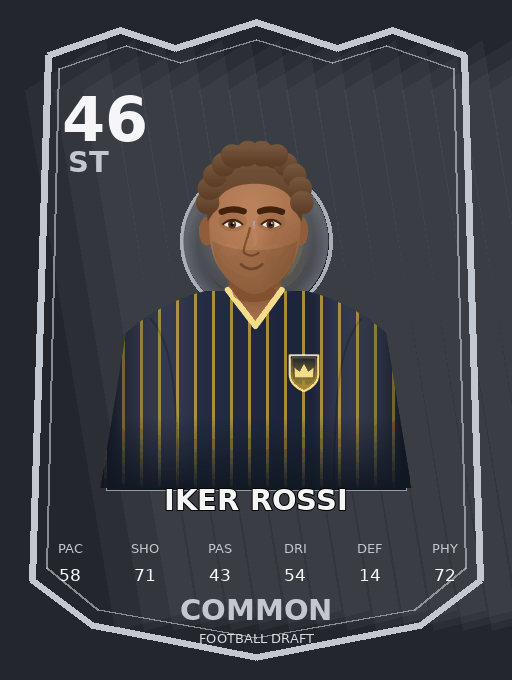
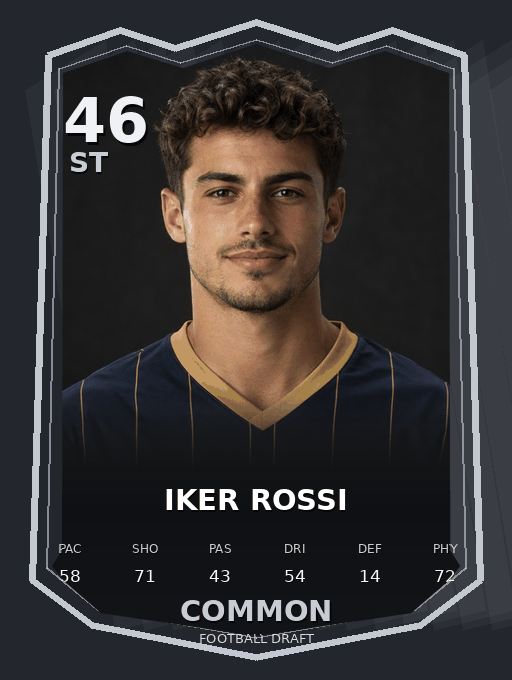
Photo cards: 250 of 300 players (FD-226 to FD-250); docs for the redesign
- Figma AI credits reached the monthly limit (next reset 2026-12-01)
- docs: implementation log (mobile redesign, portraits), status of the remaining 50

Claude-Session: https://claude.ai/code/session_01KRnKhUHTwbWg8SRZWPraiK

diff --git a/docs/04-implementation-log.md b/docs/04-implementation-log.md
@@ -104,6 +104,24 @@ GitHub Actions の Deploy（staging）で Cloudflare に初めて公開した。
 
 確認：新しく作ったワークフロー Staging check で、公開した staging を相手に、本番と同じ設定（テスト用の短い時間設定なし）で4人リーグ（自分＋CPU 3）を1回通しで実行し、すべて成功（247秒）。登録・300人のカード・Phase 3 の API・ルーム作成・WebSocket・ドラフト56ピック・3節6試合の試合計算・最終順位・試合履歴。Workers の無料プランで、試合計算が CPU 時間の上限で失敗することはなかった（1ルームでの確認。複数ルームの同時進行は未確認）。
 
+## 2026-11-17 スマートフォン縦向きのデザイン（ユーザーのデザインをもとに）
+
+ユーザーが用意した DUEL ボタンのコードと、スマートフォンのホーム画面の参考ファイルをもとに、ゲーム全体を作り直した。
+
+- 色：全体をネオンイエロー（#e5ff00）基調に（カードのレアリティの色はそのまま）
+- 画面：幅480pxまでの縦1列。PC ではドラフト・編成・試合の画面だけ横に広げる。スマートフォン向けの指定は列の幅に合わせて効く（PC の縦長の列でも崩れない）
+- 下のメニュー：ホーム・コレクション・ガシャ・ショップ・マイページ（ルームの中では隠す）。コレクション（交換所・選手図鑑）とショップ（Season Pass）は上のタブで切り替え
+- ホーム：BUILD YOUR LEGACY、DUEL ボタン（モード選択の画面を開く）、GAME MODES、今日の報酬、イベント、ランキング上位（実際のデータのみ）
+- 新しい画面：モード選択（/play）、マイページ（/me）
+- 画面の拡大を止めた：viewport の指定、iOS Safari のピンチ操作、ダブルタップ、入力欄にフォーカスした時の自動拡大、PC の Ctrl/Cmd＋ホイール・キー
+- ログインボーナスの表示が開始ボタンに重なっていたため、6秒で自動的に閉じるようにした
+
+確認：iPhone 15 の大きさで全画面（ホーム・モード選択・コレクション・交換所・図鑑・ガシャ・ショップ・パス・マイページ・ミッション・ランク・設定・履歴・残高・ソロ・イベント・ルーム）とリーグ1回（ドラフト・編成・試合・結果）。横スクロールなし、コンソールエラーなし。PC ではホームが中央の縦長の列、ルームは横に広い表示。
+
+## 2026-11-17 実写の選手カード（4日目：計250人）
+
+自動の再開（2026-11-16 00:05 UTC）がこのセッションの再起動中で届かず、2026-11-17 に実行。FD-226〜FD-250 の25人分を生成してカードに組み込んだ。Figma AI のクレジットが月の上限に達した（次のリセットは 2026-12-01）ため停止。合計250人（残り50人はイラストのカード）。単体テスト68件・型チェック成功。次は 2026-12-01 00:05 UTC に自動で再開する。
+
 ## 2026-11-15 実写の選手カード（3日目：計225人）
 
 クレジットのリセット後に自動で再開し、FD-150〜FD-225（FD-173 は生成済み）の75人分を生成してカードに組み込んだ（FD-199 は1回目が時間切れのため作り直し）。Figma AI のクレジットが今日の上限に達したため停止。合計225人（残り75人はイラストのカード）。単体テスト68件・型チェック成功。次は 2026-11-16 00:05 UTC に自動で再開する。

diff --git a/docs/02-decisions.md b/docs/02-decisions.md
@@ -168,6 +168,6 @@
 | --- | --- |
 | Collection Draft の参加条件・報酬（設計書 24-6） | 暫定で「条件なし（所持0枚でも参加可）・報酬は他のモードと同じ」で実装。変更可能 |
 | 同じカードを複数人が専用枠に登録した時 | 暫定で「登録した人の中で先に指名した人のもの」で実装。ほかに「その回は誰の専用にもしない」なども可能 |
-| 残り75人の実写画像 | クレジットのリセット後に自動で続きを生成中（1日約75枚。今の上限のままなら残りはあと1日分。2026-11-15 時点で225人完了） |
+| 残り50人の実写画像 | 2026-11-17 時点で250人完了。Figma AI のクレジットが月の上限に達したため、次のリセット（2026-12-01）に自動で再開する（プランの管理者がクレジットを追加すれば早く再開できる） |
 | AI生成画像の利用条件 | 商用リリースの前に、Figma の AI 生成画像の利用条件と、生成した顔が実在の人物に似ていないことを確認する（設計書 21 のリリース前の確認に追加） |
 | （取り下げ） | GK専用ラベルの提案は、カードがデータベースの画像（PAC〜PHY表記）になったため取り下げ |
